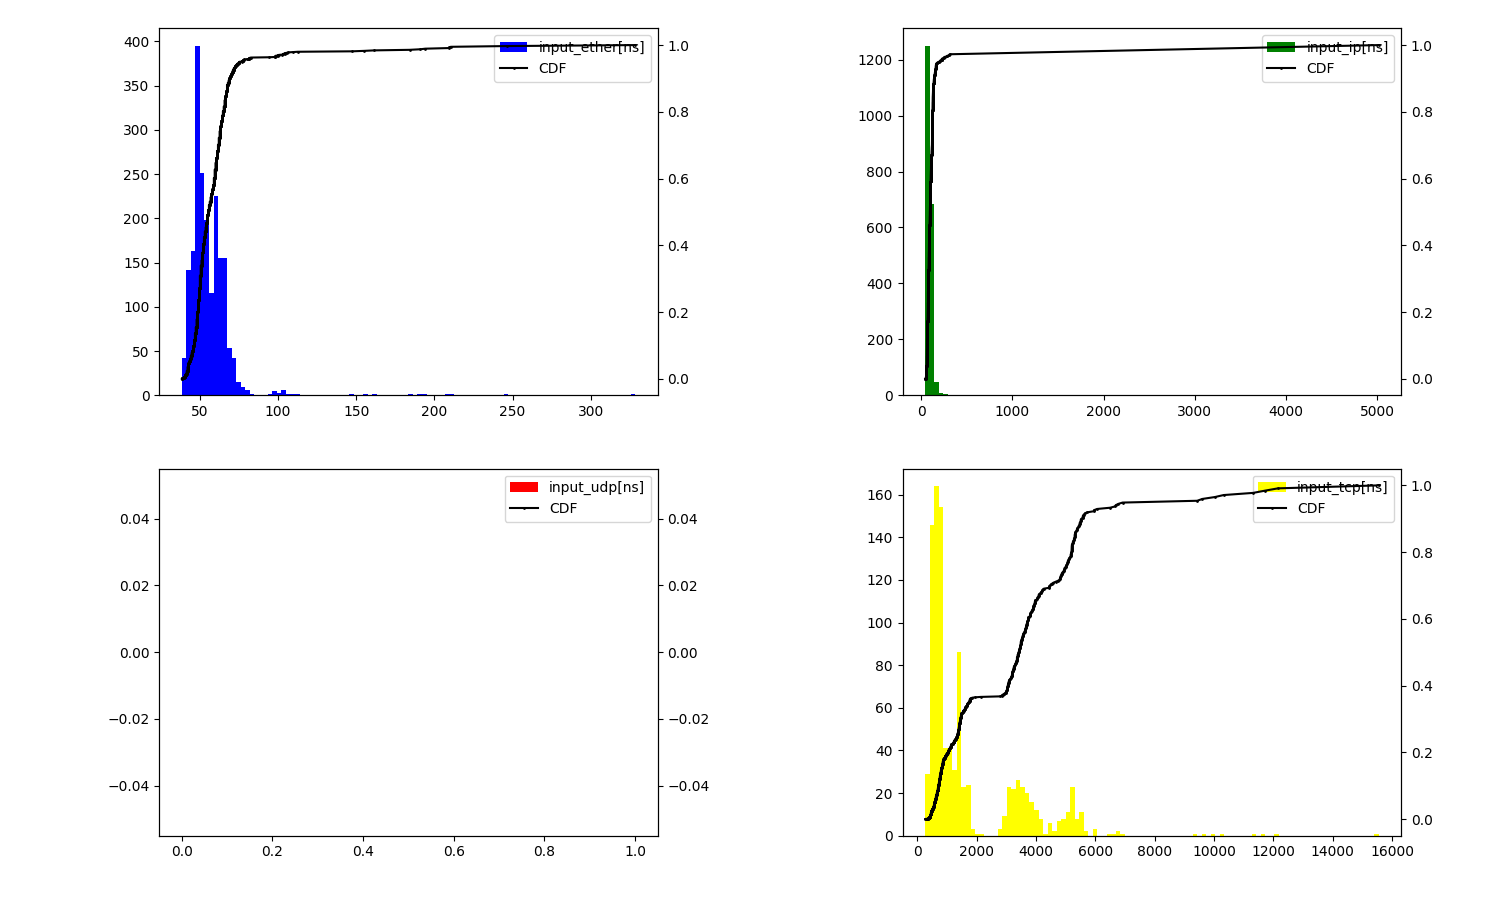
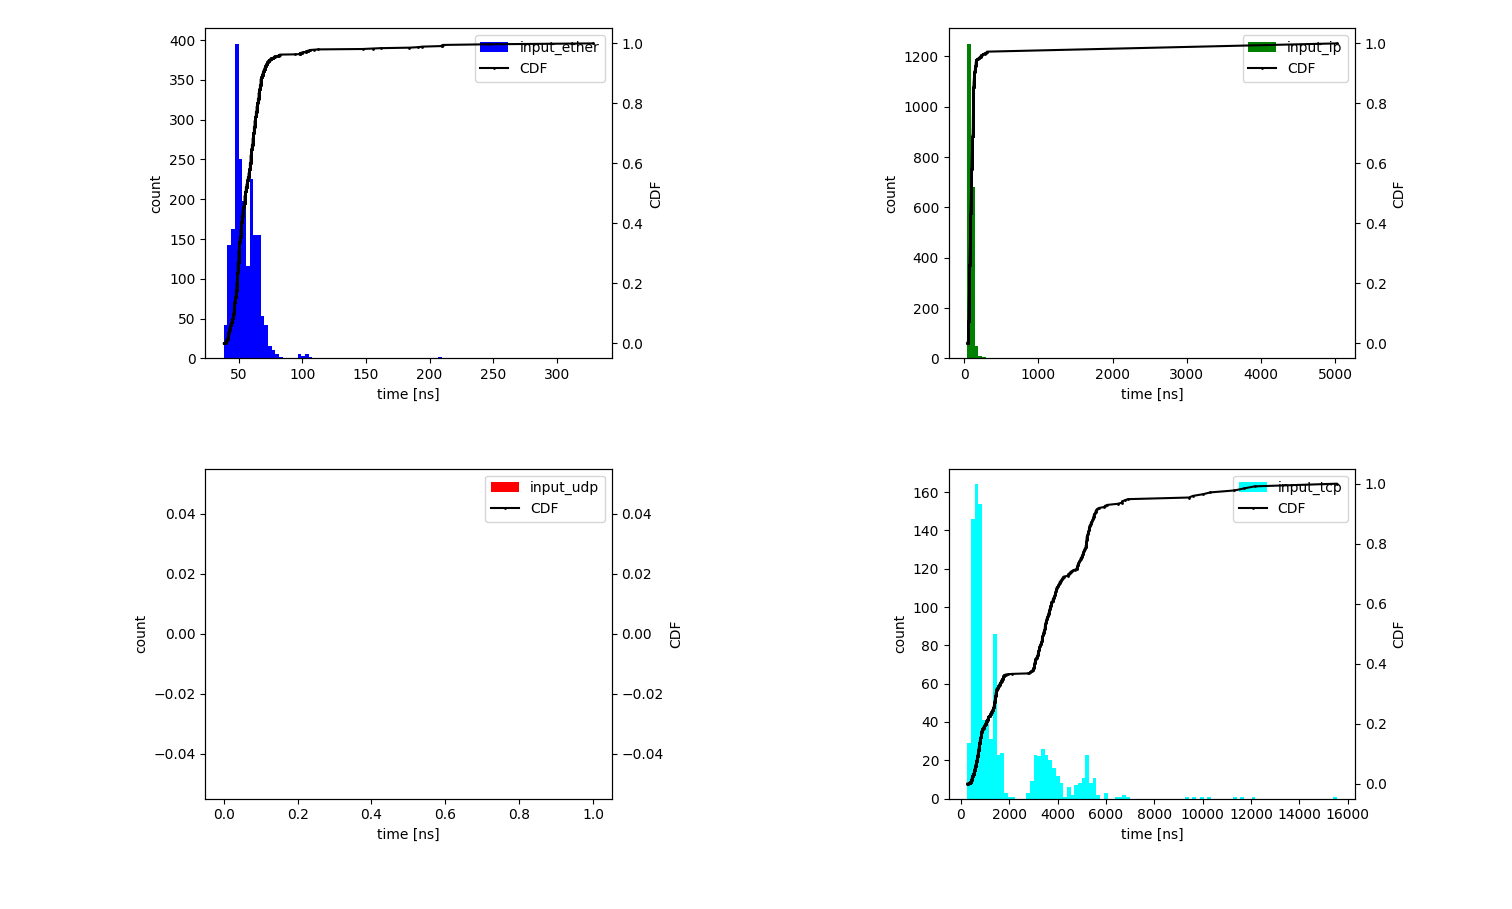
update graph

diff --git a/gen-graph.py b/gen-graph.py
@@ -45,8 +45,8 @@ def main():
     y4_cdf = np.cumsum(y4) / np.sum(y4)
 
         ## labels
-    c1, c2, c3, c4, c5 = "blue", "green", "red", "yellow", "black"
-    l1, l2, l3, l4, l5 = "input_ether[ns]", "input_ip[ns]", "input_udp[ns]", "input_tcp[ns]", "CDF"
+    c1, c2, c3, c4, c5 = "blue", "green", "red", "cyan", "black"
+    l1, l2, l3, l4, l5 = "input_ether", "input_ip", "input_udp", "input_tcp", "CDF"
 
         ## plot
     ax1.hist(y1, bins=100, label=l1, color=c1)
@@ -58,6 +58,25 @@ def main():
     ax4.hist(y4, bins=100, label=l4, color=c4)
     ax4_cdf.plot(y4, y4_cdf, label=l5, color=c5, marker="o", markersize=1)
 
+        ## axes
+    ax1.set_xlim(0, 6000)
+    ax2.set_xlim(0, 6000)
+    ax3.set_xlim(0, 6000)
+    ax4.set_xlim(0, 6000)
+
+    ax1.set_xlabel("time [ns]")
+    ax1.set_ylabel("count")
+    ax1_cdf.set_ylabel("CDF")
+    ax2.set_xlabel("time [ns]")
+    ax2.set_ylabel("count")
+    ax2_cdf.set_ylabel("CDF")
+    ax3.set_xlabel("time [ns]")
+    ax3.set_ylabel("count")
+    ax3_cdf.set_ylabel("CDF")
+    ax4.set_xlabel("time [ns]")
+    ax4.set_ylabel("count")
+    ax4_cdf.set_ylabel("CDF")
+	
         ## legends
     h1, l1 = ax1.get_legend_handles_labels()
     h1_cdf, l1_cdf = ax1_cdf.get_legend_handles_labels()
